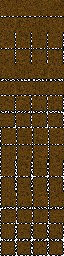
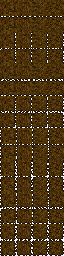
New and improved tile sprites.

diff --git a/World.cc b/World.cc
@@ -33,26 +33,26 @@ void World::generateTest() {
     foreground = new TileType[height * width];
     background = new TileType[height * width];
     // Set all tiles to EMPTY, then make some that aren't
-    setAll(EMPTY, foreground);
+    setAll(TileType::EMPTY, foreground);
 
     // Make the bottom solid
     for (int i = 0; i < width; i++) {
         for (int j = 0; j < 20; j++) {
-            setTile(i, j, STONE, foreground);
+            setTile(i, j, TileType::MUDSTONE, foreground);
         }
     }
 
     // Add a couple lines and some platforms
     for (int i = 20; i < 80; i++) {
-        setTile(i, 40, STONE, foreground);
-        setTile(i, 50, PLATFORM, foreground);
-        setTile(i, 60, STONE, foreground);
+        setTile(i, 40, TileType::MUDSTONE, foreground);
+        setTile(i, 50, TileType::PLATFORM, foreground);
+        setTile(i, 60, TileType::MUDSTONE, foreground);
     }
 
     // Add some diagonal lines
     for (int i = 20; i < 60; i++) {
-        setTile(100 + i, i + 10, STONE, foreground);
-        setTile(100 - i, i + 10, STONE, foreground);
+        setTile(100 + i, i + 10, TileType::MUDSTONE, foreground);
+        setTile(100 - i, i + 10, TileType::MUDSTONE, foreground);
     }
 }
 
@@ -67,28 +67,13 @@ void World::generateSmolTest() {
     // Create the array of tiles
     foreground = new TileType[width * height];
     background = new TileType[width * height];
-    setAll(EMPTY, foreground);
+    setAll(TileType::EMPTY, foreground);
 
-    /*
-    for (int x = 0; x < width; x++) {
-        setTo(x, 2, 3, SANDSTONE, foreground);
-        setTo(x, 0, 2, DIRT, foreground);
-    }
-   
-    // Make what should be a nice straight column
-    setTo(1, 0, height - 1, MAGMA, foreground);
-    
-    for (int x = 0; x < width; x++) {
-        if (x % 2 == 0) {
-            setTile(x, height - 1, MAGMA, foreground);
-        }
-    }
-*/
     // Set a few reference points 
-    setTile(0, 0, MUDSTONE, foreground);
-    setTile(0, height - 1, SANDSTONE, foreground);
-    setTile(width - 1, 0, STONE, foreground);
-    setTile(1, height - 1, DIRT, foreground);
+    setTile(0, 0, TileType::RED_SANDSTONE, foreground);
+    setTile(0, height - 1, TileType::SANDSTONE, foreground);
+    setTile(width - 1, 0, TileType::MUDSTONE, foreground);
+    setTile(1, height - 1, TileType::DIRT, foreground);
     
 }
 
@@ -101,14 +86,14 @@ void World::generateEarth() {
     // Create the array of tiles
     foreground = new TileType[height * width];
     background = new TileType[height * width];
-    setAll(EMPTY, foreground);
+    setAll(TileType::EMPTY, foreground);
 
     // Make a horizon line for a continent
     int horizon = 200;
     int magmaLevel = 100;
     for (int x = 0; x < width; x++) {
-        setTo(x, 0, magmaLevel, MAGMA, foreground);
-        setTo(x, magmaLevel, horizon, STONE, foreground);
+        setTo(x, 0, magmaLevel, TileType::PERIDOTITE, foreground);
+        setTo(x, magmaLevel, horizon, TileType::MUDSTONE, foreground);
     }
 
     setHills(400, 700, 15, 0.1);
@@ -120,8 +105,8 @@ void World::generateEarth() {
     // Make a canyon
     int canyonPlace = 750;
     vector<TileType> fill;
-    fill.push_back(SANDSTONE);
-    fill.push_back(MUDSTONE);
+    fill.push_back(TileType::SANDSTONE);
+    fill.push_back(TileType::RED_SANDSTONE);
     canyon(canyonPlace, horizon, 60, -50, fill, -0.7, 2);
 
     // Make some pillars (desert-style)
@@ -131,7 +116,7 @@ void World::generateEarth() {
 
     // Add a layer of dirt
     vector<TileType> justdirt;
-    justdirt.push_back(DIRT);
+    justdirt.push_back(TileType::DIRT);
     // Constructs a vector of length width with every value set to 5
     vector<double> heights (width, 5.0);
     vector<double> perlin = noise(20, width / 16, 16);
@@ -466,8 +451,8 @@ void World::mountain(int x, int y, int h) {
 //TODO: add randomness, make it recursive
 // TODO make the limit reasonable and add a recursive else
     vector<TileType> below, above;
-    above.push_back(EMPTY);
-    below.push_back(STONE);
+    above.push_back(TileType::EMPTY);
+    below.push_back(TileType::MUDSTONE);
     vector<double> heights;
     int w = 4 * h / 3;
     if (h < 200) {
@@ -500,7 +485,7 @@ vector<double> World::makeHills(int length, int maxAmp, double maxFreq) const {
             /*int n = (amp * sin(i * freq + phaseShift));
             heights[i] += n;
             // Code to view what sin functions are involved
-            setTile(i, n + 200, MAGMA, foreground);
+            setTile(i, n + 200, TileType::PERIDOTITE, foreground);
             */
         }
     }
@@ -534,7 +519,7 @@ void World::setHills(int start, int stop, int maxAmp, double maxFreq) {
 
     // Now that we have the heights, actually set the hills to those heights
     vector<TileType> above(1, TileType::EMPTY);
-    vector<TileType> below(1, TileType::STONE);
+    vector<TileType> below(1, TileType::MUDSTONE);
     setHeights(start, stop, heights, above, below, height, foreground);
 }
 

diff --git a/Tile.cc b/Tile.cc
@@ -14,9 +14,9 @@ Tile::Tile(TileType tileType, unsigned index)
     maxSpriteCol = 4;
     isSolid = true;
     isPlatform = false;
+    isTiledLikePlatform = false;
     maxHealth = 1;
     erodeResist = -1;
-    maxPressure = -1;
 
     // Set things to the right values
     switch(tileType) {
@@ -25,48 +25,42 @@ Tile::Tile(TileType tileType, unsigned index)
         case TileType::EMPTY : 
             isSolid = false;
             sprite = "";
-            mass = 0;
             break;
+        case TileType::IMPASSABLE :
+            isSolid = true;
+            sprite = "";
         case TileType::PLATFORM :
             sprite = "platform.png";
-            mass = 0;
             maxHealth = 2;
             isPlatform = true;
+            isTiledLikePlatform = true;
             break;
         case TileType::DIRT :
             sprite = "dirt.png";
-            mass = 5;
             maxHealth = 5;
             erodeResist = 10;
-            maxPressure = 500;
-            pressureMetamorph = TileType::STONE;
             break;
-        case TileType::STONE :
-            sprite = "stone.png";
-            mass = 10;
+        case TileType::MUDSTONE :
+            sprite = "mudstone.png";
             maxHealth = 10;
             erodeResist = 100;
-            maxPressure = 10000;
-            pressureMetamorph = TileType::MAGMA;
             break;
-        case TileType::MAGMA :
-            sprite = "stone.png";
-            mass = 15;
+        case TileType::PERIDOTITE :
+            sprite = "peridotite.png";
             maxHealth = 3;
             break;
         case TileType::SANDSTONE :
-            sprite = "dirt.png";
-            mass = 10;
-            maxHealth = 8;
-            erodeResist = 100;
-            // TODO: pressure metamorph is quartzite
-            break;
-        case TileType::MUDSTONE :
-            sprite = "stone.png";
-            mass = 10;
+            sprite = "sandstone.png";
             maxHealth = 8;
             erodeResist = 100;
             break;
+        case TileType::RED_SANDSTONE :
+            sprite = "red_sandstone.png";
+            maxHealth = 8;
+            erodeResist = 100;
+            break;
+        case TileType::DIAMOND :
+            sprite = "diamond.png";
     }
 }
 

diff --git a/WindowHandler.cc b/WindowHandler.cc
@@ -311,7 +311,7 @@ void WindowHandler::update(const Map &map, const vector<Movable *> &movables) {
 
     // Put a black rectangle in the background
     SDL_Rect fillRect = { 0, 0, screenWidth, screenHeight };
-    SDL_SetRenderDrawColor(renderer, 0x00, 0xFF, 0xFF, 0xFF);
+    SDL_SetRenderDrawColor(renderer, 0x00, 0x99, 0xFF, 0xFF);
     SDL_RenderFillRect(renderer, &fillRect);
 
     // Only draw stuff if it isn't minimized
